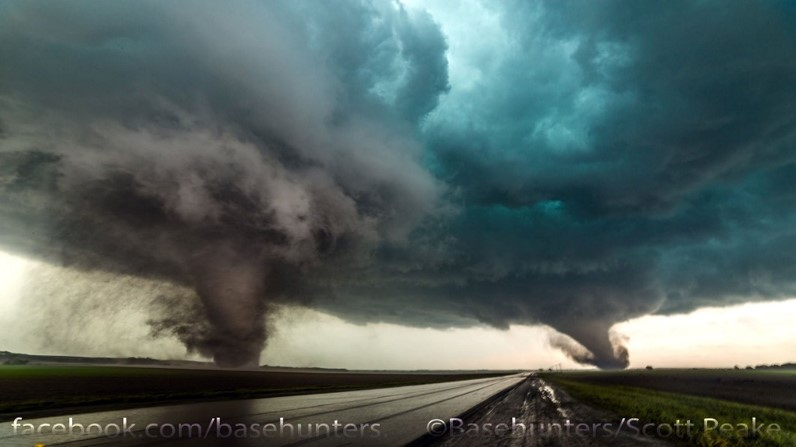
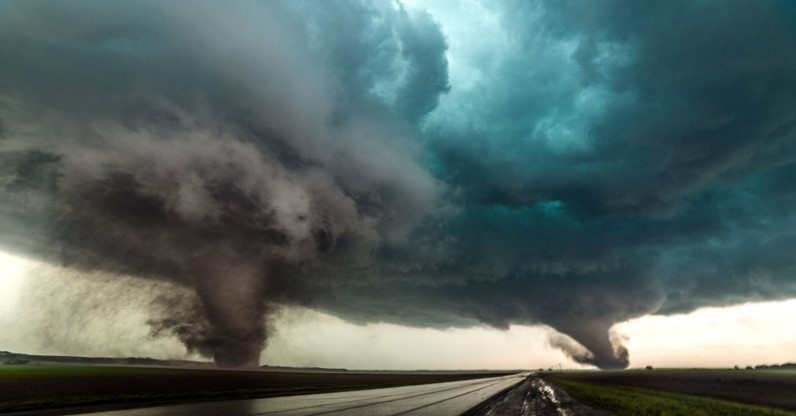
fix image sizing, update cost boxes

diff --git a/outputs.html b/outputs.html
@@ -71,7 +71,7 @@
     <div class="container-fluid">
         <div class="row">
             <div class="col-12 p-0">
-                <img src=" img/header-photo.jpg" alt="" class="w-100">
+                <img src=" img/header-photo-long.jpg" alt="" class="w-100">
                 <small>Photo courtesy of Scott Peake</small>
             </div>
         </div>
@@ -81,14 +81,15 @@
         <h1 class="pt-5">At Building Level</h1>
         <div class="row py-3">
             <div class="col-md">
-                <h2 class="output-label">With</h2>
+                <h2 class="output-label">Animation of tornado impact without adopting UBC</h2>
                 <video class="video embed-responsive" autoplay muted loop>
                     <source src="img/left_animation.mp4" type="video/mp4" class="embed-responsive-item">
                 </video>
                 <small>Will be replaced later</small>
             </div>
             <div class="col-md">
-                <h2 class="output-label">Without</h2>
+                <h2 class="output-label">Animation of tornado impact with adopting UBC</h2>
+
                 <video class="video embed-responsive" autoplay muted loop>
                     <source src="img/right_animation.mp4" type="video/mp4" class="embed-responsive-item">
                 </video>
@@ -98,14 +99,13 @@
         <h1 class="pt-5">At Community Level</h1>
         <div class="row py-3">
             <div class="col-md">
-                <h2 class="output-label">Animation of tornado impact without adopting UBC</h2>
+
                 <video class="video embed-responsive" autoplay muted loop>
                     <source src="img/Left.mp4" type="video/mp4" class="embed-responsive-item">
                 </video>
                 <small>Will be replaced later</small>
             </div>
             <div class="col-md">
-                <h2 class="output-label">Animation of tornado impact with adopting UBC</h2>
                 <video class="video embed-responsive" autoplay muted loop>
                     <source src="img/Right.mp4" type="video/mp4" class="embed-responsive-item">
                 </video>
@@ -113,18 +113,17 @@
             </div>
         </div>
 
-        <table class="table table-bordered mt-5">
-            <tbody>
-                <tr>
-                    <td>Estimated Loss: box</td>
-                    <td>Estimated Benefits (Loss Reduction): box</td>
-                </tr>
-                <tr>
-                    <td>Estimated Costs for Repair/Rebuilding: box</td>
-                    <td>Associated Costs: box</td>
-                </tr>
-            </tbody>
-        </table>
+        <div class="row py-3 output-costs">
+            <div class="col-md d-flex">
+                <p>Estimated Loss: <span class="box border">TBD</span></p>
+                <p>Estimated Benefits (Loss Reduction): <span class="box border">TBD</span></p>
+            </div>
+            <div class="col-md">
+                <p>Estimated Costs for Repair/Rebuilding: <span class="box border">TBD</span></p>
+                <div></div>
+                <p>Associated Costs: <span class="box border">TBD</span></p>
+            </div>
+        </div>
     </div>
 
 

diff --git a/styles.css b/styles.css
@@ -76,9 +76,9 @@ header h1 {
 }
 
 
-.row:nth-of-type(2) img {
+/* .row:nth-of-type(2) img {
     height: 70%;
-}
+} */
 
 .block img {
     opacity: .85;
@@ -95,7 +95,7 @@ header h1 {
 .block h2 {
     position: absolute;
     text-shadow: 2px 2px 3px #000;
-    font-size: 3em;
+    font-size: 2em;
     color: #FFF;
     bottom: 1em;
     left: 1em;
@@ -127,6 +127,9 @@ form {
     font-weight: bold;
     font-size: 2em;
 } */
+.output-costs box {
+    flex-grow: 1;
+}
 
 
 /* FOOTER */

diff --git a/index.html b/index.html
@@ -99,7 +99,7 @@
                 <a href="#" class=" block">
                     <img src="img/picture3.png" alt="">
                     <h2>Identify Barriers When Adopting UBC for BBB</h2>
-                    <small>Photo courtesy of ... Will be replaced later.</small>
+                    <small style="color: #203966">Photo courtesy of ... Will be replaced later.</small>
                 </a>
             </div>
         </div>

diff --git a/support_tool.html b/support_tool.html
@@ -71,7 +71,7 @@
     <div class="container-fluid">
         <div class="row">
             <div class="col-12 p-0">
-                <img src=" img/header-photo.jpg" alt="" class="w-100">
+                <img src=" img/header-photo-long.jpg" alt="" class="w-100">
                 <small>Photo courtesy of Scott Peake</small>
             </div>
         </div>
